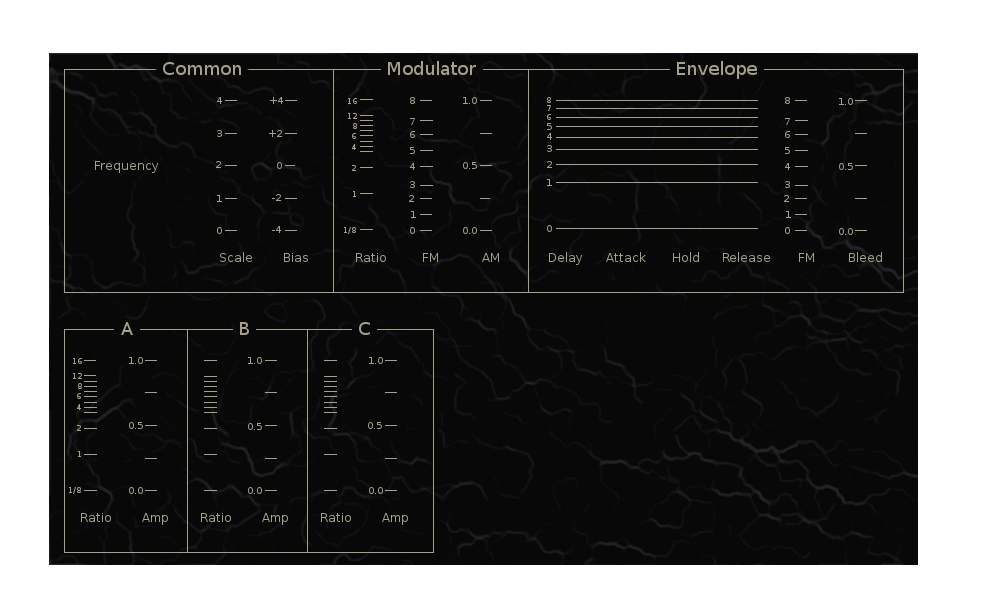
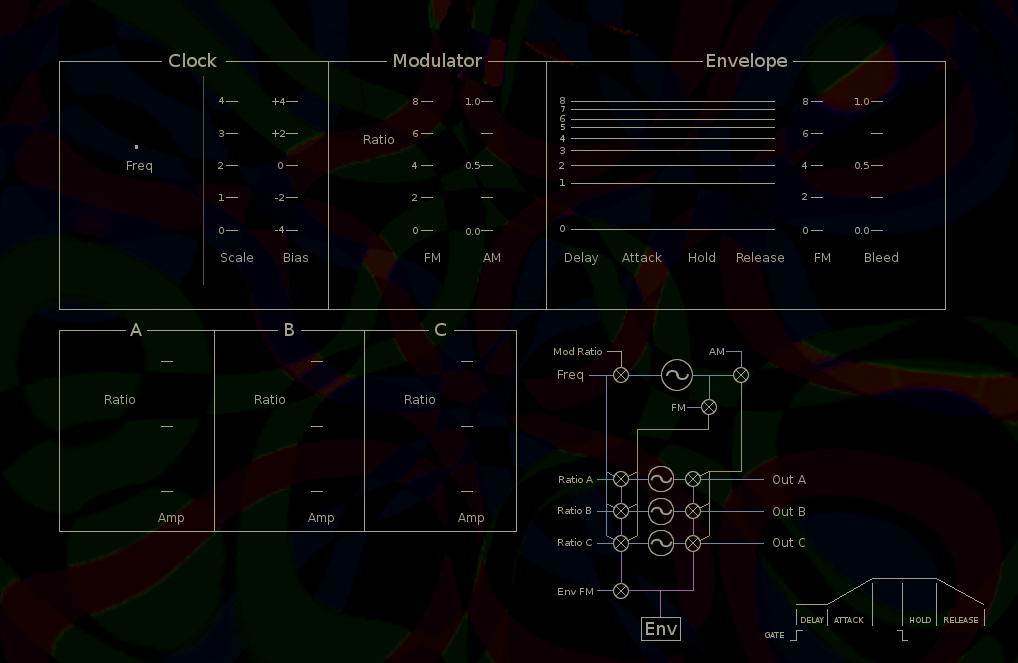
Updated LFO3 to use Tumbler widget

diff --git a/llia/synths/lfo3/tk/editor.py b/llia/synths/lfo3/tk/editor.py
@@ -4,8 +4,21 @@ from llia.gui.tk.tk_subeditor import TkSubEditor
 import llia.gui.tk.tk_factory as factory
 import llia.gui.tk.control_factory as cf
 from llia.gui.tk.expslider import ExpSlider
-from llia.gui.tk.freq_spinner import FrequencySpinnerControl
+from llia.gui.tk.tumbler import Tumbler
+from llia.gui.tk.msb import MSB
 from llia.synths.lfo3.lfo3_data import HARMONICS
+
+
+def _msb_aspect(value, text):
+    d = {'value' : value,
+         'fill' : '',
+         'active-fill' : '',
+         'foreground' : '#c29e78',
+         'active-foreground' : 'yellow',
+         'outline' : '#c29e78',
+         'active-outline' : 'yellow',
+         'text' : text}
+    return d
 
 
 def create_editor(parent):
@@ -19,15 +32,25 @@ class TkLfo3Panel(TkSubEditor):
     def __init__(self, editor):
         frame = editor.create_tab(self.NAME)
         frame.config(background=factory.bg())
-        canvas = factory.canvas(frame,1000,600,self.IMAGE_FILE)
+        canvas = factory.canvas(frame,1018,663,self.IMAGE_FILE)
         canvas.pack()
         TkSubEditor.__init__(self, canvas, editor, self.NAME)
         editor.add_child_editor(self.NAME, self)
-        spin_freq = FrequencySpinnerControl(canvas,"lfoFreq",editor,
-                                            from_=0,to=32)
+
+        def ratio_msb(param,x,y):
+            count = len(HARMONICS)
+            msb = MSB(canvas,param,editor,count)
+            for i,p in enumerate(HARMONICS):
+                v,text = p
+                d = _msb_aspect(v,text)
+                msb.define_aspect(i,v,d)
+            self.add_control(param,msb)
+            msb.layout((x,y))
+            msb.update_aspect()
+            return msb
+        tumbler = Tumbler(canvas,"lfoFreq",editor, digits=5, scale=0.001)
         s_scale = cf.linear_slider(canvas, "lfoScale", editor, range_=(0,4))
         s_bias = cf.linear_slider(canvas, "lfoBias", editor, range_=(-4,4))
-        s_mod_freq = cf.discrete_slider(canvas, "lfoModFreq", editor, values=HARMONICS)
         s_fm = cf.linear_slider(canvas, "lfoFM", editor, range_=(0, 8))
         s_am = cf.normalized_slider(canvas, "lfoAM", editor)
         s_delay = ExpSlider(canvas, "lfoDelay", editor, range_=8)
@@ -36,16 +59,12 @@ class TkLfo3Panel(TkSubEditor):
         s_release = ExpSlider(canvas, "lfoRelease", editor, range_=8)
         s_env_fm = cf.linear_slider(canvas, "lfoEnvToFreq", editor, range_=(0,8))
         s_env_bleed = cf.normalized_slider(canvas, "lfoBleed", editor)
-        s_ratio_a = cf.discrete_slider(canvas, "lfoRatioA", editor, values=HARMONICS)
-        s_ratio_b = cf.discrete_slider(canvas, "lfoRatioB", editor, values=HARMONICS)
-        s_ratio_c = cf.discrete_slider(canvas, "lfoRatioC", editor, values=HARMONICS)
         s_amp_a = cf.normalized_slider(canvas, "lfoAmpA", editor)
         s_amp_b = cf.normalized_slider(canvas, "lfoAmpB", editor)
         s_amp_c = cf.normalized_slider(canvas, "lfoAmpC", editor)
-        self.add_control("lfoFreq", spin_freq)
+        self.add_control("lfoFreq", tumbler)
         self.add_control("lfoScale", s_scale)
         self.add_control("lfoBias", s_bias)
-        self.add_control("lfoModFreq", s_mod_freq)
         self.add_control("lfoFM", s_fm)
         self.add_control("lfoAM", s_am)
         self.add_control("lfoDelay", s_delay)
@@ -54,9 +73,6 @@ class TkLfo3Panel(TkSubEditor):
         self.add_control("lfoRelease", s_release)
         self.add_control("lfoEnvToFreq", s_env_fm)
         self.add_control("lfoBleed", s_env_bleed)
-        self.add_control("lfoRatioA", s_ratio_a)
-        self.add_control("lfoRatioB", s_ratio_b)
-        self.add_control("lfoRatioC", s_ratio_c)
         self.add_control("lfoAmpA", s_amp_a)
         self.add_control("lfoAmpB", s_amp_b)
         self.add_control("lfoAmpC", s_amp_c)
@@ -64,27 +80,25 @@ class TkLfo3Panel(TkSubEditor):
         x0 = 90
         x1 = x0 + 140
         x2 = x1 + 60
-        x_mod = x2 + 75
-        x_fm = x_mod + 60
+        x_mod = x2 +60
+        x_fm = x_mod + 75
         x_am = x_fm + 60
-        x_delay = x_am + 75
+        x_delay = x_am + 90
         x_attack = x_delay + 60
         x_hold = x_attack + 60
         x_release = x_hold + 60
         x_env_fm = x_release + 60
         x_bleed = x_env_fm + 60
         x_a = x0
-        x_b = x_a + 120
-        x_c = x_b + 120
-        spin_freq.layout((x0,y0))
-        spin_freq.create_nudgetools(canvas,(x0+13,y0+30),
-                                    deltas=(10,1,0.1,0.01),
-                                    constant=1,
-                                    fill='#131313',
-                                    outline='#a5a08a')
+        x_b = x_a + 150
+        x_c = x_b + 150
+        ratio_msb("lfoModFreq", x_mod,y0)
+        ratio_msb("lfoRatioA", x_a, y1)
+        ratio_msb("lfoRatioB", x_b, y1)
+        ratio_msb("lfoRatioC", x_c, y1)
+        tumbler.layout((x0+13,y0+30))
         s_scale.widget().place(x=x1, y=y0)
         s_bias.widget().place(x=x2, y=y0)
-        s_mod_freq.widget().place(x=x_mod, y=y0)
         s_fm.widget().place(x=x_fm, y=y0)
         s_am.widget().place(x=x_am, y=y0)
         s_delay.layout(offset=(x_delay, y0),checkbutton_offset=None)
@@ -93,9 +107,6 @@ class TkLfo3Panel(TkSubEditor):
         s_release.layout(offset=(x_release, y0),checkbutton_offset=None)
         s_env_fm.widget().place(x=x_env_fm, y=y0)
         s_env_bleed.widget().place(x=x_bleed, y=y0)
-        s_ratio_a.widget().place(x=x_a, y=y1)
-        s_ratio_b.widget().place(x=x_b, y=y1)
-        s_ratio_c.widget().place(x=x_c, y=y1)
-        s_amp_a.widget().place(x=x_a+60, y=y1)
-        s_amp_b.widget().place(x=x_b+60, y=y1)
-        s_amp_c.widget().place(x=x_c+60, y=y1)
+        s_amp_a.widget().place(x=x_a+75, y=y1)
+        s_amp_b.widget().place(x=x_b+75, y=y1)
+        s_amp_c.widget().place(x=x_c+75, y=y1)

diff --git a/llia/synths/lfo3/lfo3_data.py b/llia/synths/lfo3/lfo3_data.py
@@ -6,9 +6,34 @@ from llia.program import Program
 from llia.bank import ProgramBank
 from llia.performance_edit import performance
 
-HARMONICS = [0.125, 0.25, 0.375, 0.5, 0.675,0.75,0.875,
-             1, 1.125, 1.25, 1.5, 1.75,
-             2, 2.25, 2.5, 3, 4, 5, 6, 7, 8, 9, 12, 16] 
+# HARMONICS = [0.125, 0.25, 0.375, 0.5, 0.675,0.75,0.875,
+#              1, 1.125, 1.25, 1.5, 1.75,
+#              2, 2.25, 2.5, 3, 4, 5, 6, 7, 8, 9, 12, 16] 
+
+HARMONICS = ((0.125, "1/8"),
+             (0.25, "1/4"),
+             (0.375, "3/8"),
+             (0.5, "1/2"),
+             (0.675,"5/8"),
+             (0.75,"3/4"),
+             (0.875,"7/8"),
+             (1, "1"),
+             (1.125, "1 1/8"),
+             (1.25, "1 1/4"),
+             (1.5, "1 1/2"),
+             (1.75,"1 3/4"),
+             (2, "2"),
+             (2.25, "2 1/4"),
+             (2.5, "2 1/5"),
+             (3, "3"),
+             (4, "4"),
+             (5, "5"),
+             (6, "6"),
+             (7, "7"),
+             (8, "8"),
+             (9, "9"),
+             (12, "12"),
+             (16, "16"))
 
 prototype = {
     "lfoScale" : 1.0,      # Common scale factor  (1/4 ... 4)
@@ -109,7 +134,7 @@ def pp(program, slot=127):
     frmt = '%sratios = [%5.3f, %5.3f, %5.3f],\n'
     vlst = values('lfoRatioA','lfoRatioB','lfoRatioC')
     acc += frmt % vlst
-    frmt = '%samps = [%5.3f, %5.3f. %5.3f],\n'
+    frmt = '%samps = [%5.3f, %5.3f, %5.3f],\n'
     vlst = values('lfoAmpA','lfoAmpB','lfoAmpC')
     acc += frmt % vlst
     frmt = '%senv = [%5.3f, %5.3f, %5.3f, %5.3f],\n'
@@ -128,7 +153,58 @@ def pp(program, slot=127):
 
 
 
-lfo3(0, "Test")
-lfo3(1, "Quiz",
-     freq = 0.5,
-     ratios = [1.0, 2.0, 3.0])
+lfo3(0, "Tripartite",
+     freq = 1.000,
+     ratios = [1.000, 1.000, 1.000],
+     amps = [1.000, 1.000, 1.000],
+     env = [0.000, 0.000, 0.000, 0.000],
+     am = [1.000, 0.000],
+     fm = [0.000, 0.000],
+     mod_freq = 1.000,
+     scale = 1.000,
+     bias = 0.000)
+
+lfo3(1, "Syncopated 1:2:3",
+     freq = 1.000,
+     ratios = [1.000, 2.000, 3.000],
+     amps = [1.000, 1.000, 1.000],
+     env = [0.000, 0.000, 0.000, 0.000],
+     am = [1.000, 0.000],
+     fm = [0.000, 0.000],
+     mod_freq = 1.000,
+     scale = 1.000,
+     bias = 0.000)
+
+lfo3(2, "Syncopated 2",
+     freq = 1.500,
+     ratios = [1.000, 1.500, 1.000],
+     amps = [1.000, 1.000, 1.000],
+     env = [0.000, 0.000, 1.000, 0.000],
+     am = [1.000, 0.965],
+     fm = [0.000, 0.000],
+     mod_freq = 0.500,
+     scale = 1.000,
+     bias = 0.000)
+
+lfo3(3, "Delayed Complex 1",
+     freq = 4.500,
+     ratios = [1.500, 2.000, 4.000],
+     amps = [1.000, 0.191, 0.141],
+     env = [0.898, 2.000, 1.000, 0.952],
+     am = [0.000, 0.000],
+     fm = [0.000, 0.000],
+     mod_freq = 0.500,
+     scale = 0.300,
+     bias = 0.000)
+
+lfo3(4, "100 Hz",
+     freq = 99.000,
+     ratios = [1.000, 2.000, 3.000],
+     amps = [1.000, 0.523, 0.342],
+     env = [0.442, 1.549, 1.000, 1.037],
+     am = [0.000, 0.146],
+     fm = [0.000, 0.000],
+     mod_freq = 0.125,
+     scale = 1.000,
+     bias = 0.000)
+

diff --git a/llia/synths/lfo3/lfo3_proxy.py b/llia/synths/lfo3/lfo3_proxy.py
@@ -5,7 +5,6 @@ from __future__ import print_function
 from llia.gui.pallet import default_pallet, Pallet
 from llia.synth_proxy import SynthSpecs, SynthProxy
 from llia.synths.lfo3.lfo3_data import program_bank, pp
-from llia.synths.lfo3.lfo3_random import random_lfo3
 
 specs = SynthSpecs("LFO3")
 
@@ -35,7 +34,7 @@ specs["keymodes"] = ("EFX", )
 specs["audio-output-buses"] = []
 specs["audio-input-buses"] = []
 specs["pretty-printer"] = pp
-specs["program-generator"] = random_lfo3
+specs["program-generator"] = None
 specs["is-efx"] = True
 specs["is-controller"] = True
 specs["help"] = "LFO3"
